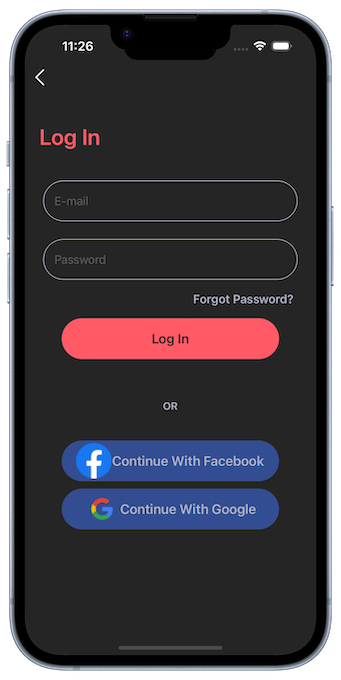
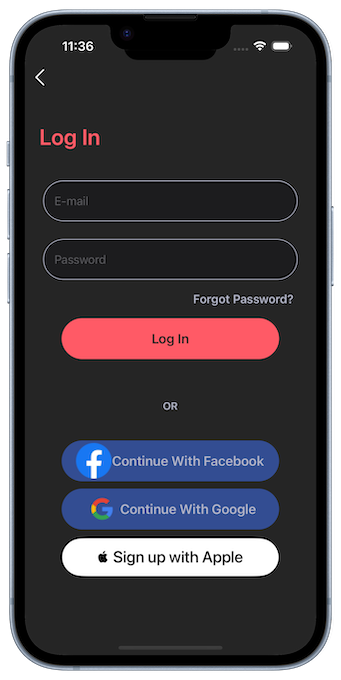
fix search bug

Changed region(s): [[0.176, 0.7721, 0.8211, 0.8647], [0.2346, 0.0618, 0.2639, 0.0926]]

diff --git a/PocketTube/Core/Profile/View/ProfileViewController.swift b/PocketTube/Core/Profile/View/ProfileViewController.swift
@@ -12,6 +12,7 @@ import FirebaseAuth
 import FBSDKLoginKit
 import SDWebImage
 import MessageUI
+import JGProgressHUD
 
 private enum ProfileSection: Int, CaseIterable {
     case info, support, logout
@@ -35,6 +36,7 @@ final class ProfileViewController: UIViewController {
     private var email: String? = nil
     
     private var headerView : UIView?
+    private let spinner = JGProgressHUD(style: .dark)
     
     private var profileImageView: UIImageView = {
         let imageView = UIImageView()
@@ -332,25 +334,30 @@ extension ProfileViewController: UIImagePickerControllerDelegate, UINavigationCo
         
         actionSheet.addAction(UIAlertAction(title: "Take Photo",
                                             style: .default,
-                                            handler: { _ in
-            self.presentCamera()
+                                            handler: { [weak self] _ in
+            self?.presentCamera()
         }))
         
         actionSheet.addAction(UIAlertAction(title: "Chose Photo",
                                             style: .default,
-                                            handler: { _ in
-            self.presentPhotoPicker()
+                                            handler: { [weak self] _ in
+            self?.presentPhotoPicker()
         }))
         
         present(actionSheet, animated: true)
     }
     
     func presentCamera() {
-        let vc = UIImagePickerController()
-        vc.sourceType = .camera
-        vc.delegate = self
-        vc.allowsEditing = true
-        present(vc, animated: true)
+        if UIImagePickerController.isSourceTypeAvailable(.camera) {
+            let vc = UIImagePickerController()
+            vc.sourceType = .camera
+            vc.delegate = self
+            vc.allowsEditing = true
+            self.spinner.dismiss()
+            present(vc, animated: true)
+        } else {
+            showUIAlert(message: "Camera is unavailable on this device.")
+        }
     }
     
     func presentPhotoPicker() {

diff --git a/PocketTube/Core/Profile/View/AppInfoViewController.swift b/PocketTube/Core/Profile/View/AppInfoViewController.swift
@@ -26,7 +26,7 @@ class AppInfoViewController: UIViewController {
     
     private let content: UILabel = {
         let label = UILabel()
-        label.text = "This app is built upon TMDB (The Movie Database) as its foundation, offering users the ability to browse a variety of movie and TV show information. It utilizes Firebase for login authentication, allowing users to register or directly log in using their Facebook or Google accounts.\n\nThe backend database is powered by Firestore Database, enabling users to save and collect movies they are interested in.\nDue to copyright concerns, the app uses YouTube trailers for video content, while the text and image data of the movies are sourced from TMDB."
+        label.text = "This app is built upon TMDB (The Movie Database) as its foundation, offering users the ability to browse a variety of movie and TV show information. It utilizes Firebase for login authentication, allowing users to register or directly log in with their Facebook, Google and Apple.\n\nThe backend database is powered by Firestore Database, enabling users to save and collect movies they are interested in.\nDue to copyright concerns, the app uses YouTube trailers for video content, while the text and image data of the movies are sourced from TMDB."
         label.textColor = .label
         label.textAlignment = .left
         label.numberOfLines = 0

diff --git a/PocketTube/Core/Search/View/SearchViewController.swift b/PocketTube/Core/Search/View/SearchViewController.swift
@@ -158,7 +158,7 @@ extension SearchViewController: UITableViewDelegate, UITableViewDataSource {
     
     func tableView(_ tableView: UITableView, didSelectRowAt indexPath: IndexPath) {
         
-        let media = searchController.isActive ? viewModel.searchedItems[indexPath.section] : viewModel.defaultItems[indexPath.row]
+        let media = searchController.isActive ? viewModel.searchedItems[indexPath.row] : viewModel.defaultItems[indexPath.row]
                 
         previewMedia(mediaName: media.displayTitle, mediaOverview: media.overview)
         

diff --git a/README.md b/README.md
@@ -1,5 +1,5 @@
 ## About
-This app is built upon TMDB (The Movie Database) as its foundation, offering users the ability to browse a variety of movie and TV show information. It utilizes Firebase for login authentication, allowing users to register or directly log in using their Facebook or Google accounts. The backend database is powered by Firestore Database, enabling users to save and collect movies they are interested in.
+This app is built upon TMDB (The Movie Database) as its foundation, offering users the ability to browse a variety of movie and TV show information. It utilizes Firebase for login authentication, allowing users to register or directly log in with Facebook, Google and Apple. The backend database is powered by Firestore Database, enabling users to save and collect movies they are interested in.
 
 Due to copyright concerns, the app uses YouTube trailers for video content, while the text and image data of the movies are sourced from TMDB. 
 
@@ -23,7 +23,7 @@ The following content includes technical details, feature introductions, and dem
 ![](images/LogIn.png)
 ![](images/SignUp.png)
 
-[Demo video](https://www.youtube.com/watch?v=OS2JBtEoAFg)
+[Demo video](https://youtu.be/hojQ0-4yL6A)
 
 ### Home
 
@@ -41,7 +41,7 @@ The following content includes technical details, feature introductions, and dem
 
 ![](images/Search.png)
 
-[Demo video](https://www.youtube.com/watch?v=BQcOcP1j3bY)
+[Demo video](https://youtu.be/oYRjc9Gm1ug)
 
 ## Build
 1. Drag your own GoogleService-Info.plist into the project.
